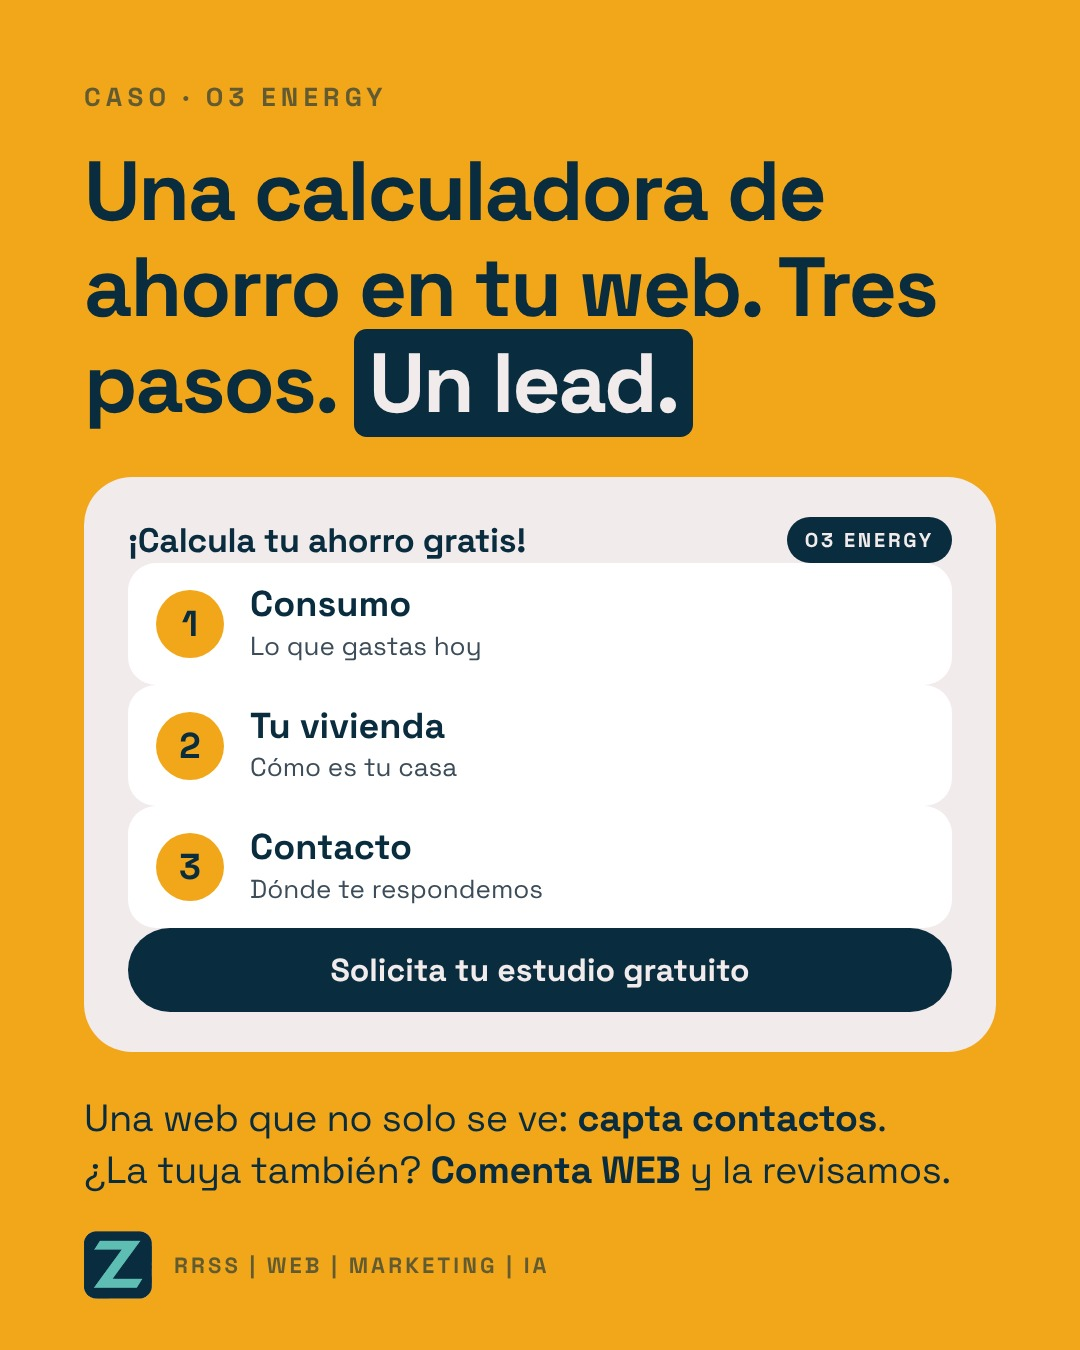
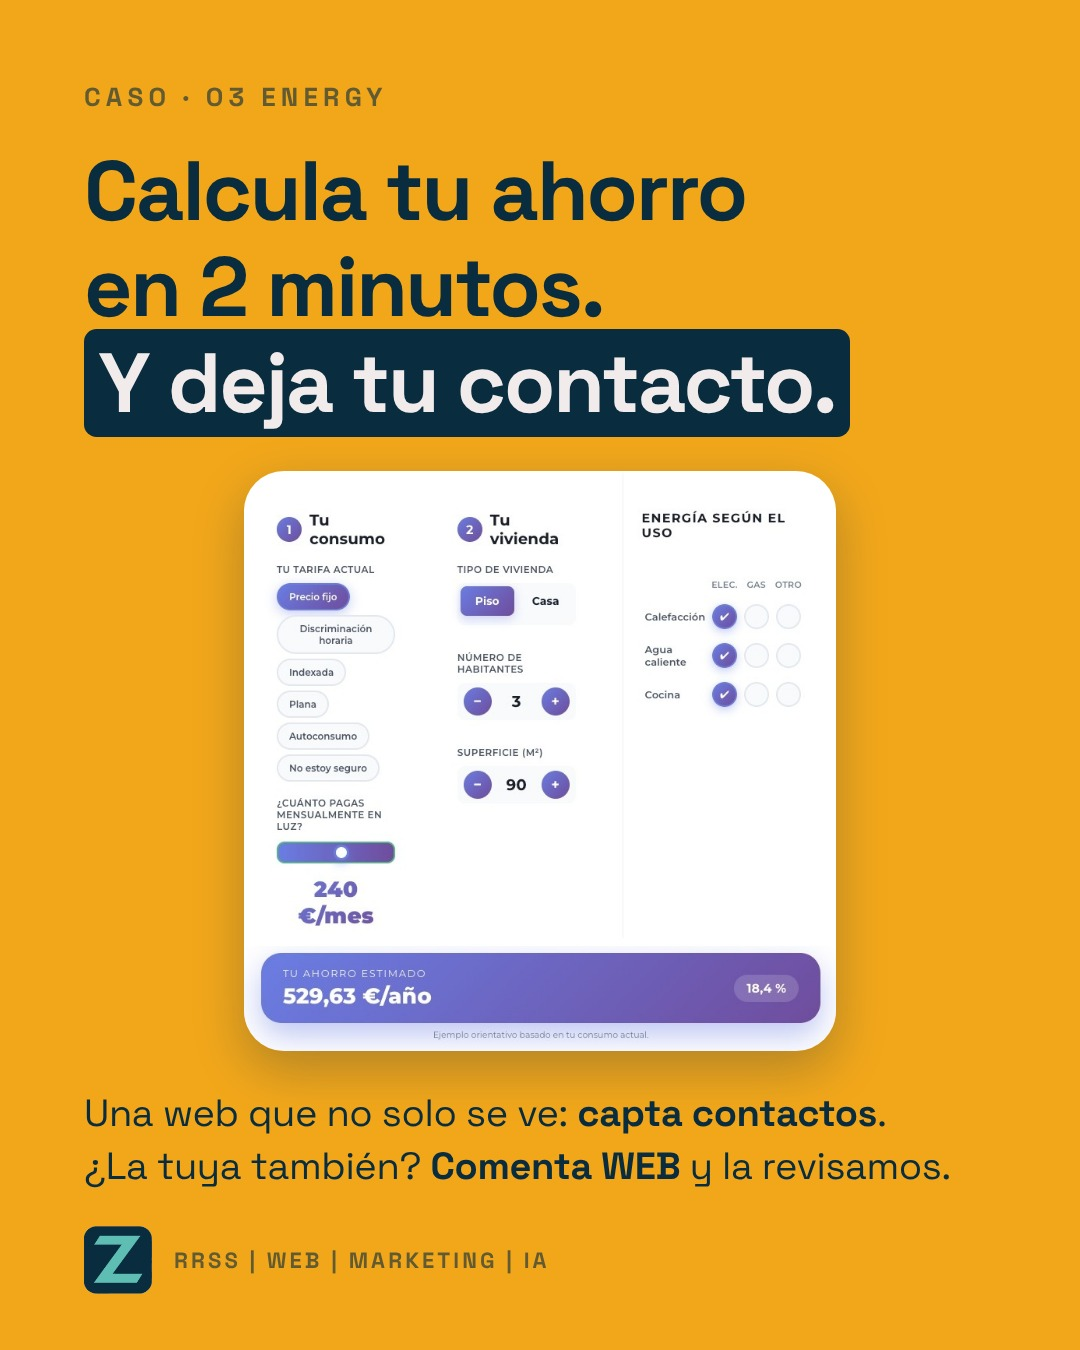
PP2 O3 Energy con captura real de la calculadora
Claude-Session: https://claude.ai/code/session_01Nb11QGD8PGx7x8MteMgDec

diff --git a/2026-12/copys.md b/2026-12/copys.md
@@ -48,9 +48,9 @@ Comenta CANAL y lo vemos para tu negocio.
 #MetaAds #TikTokAds #MarketingDigital #Zynel360
 
 ## 15 dic · IG+FB · PP2 · Caso O3 Energy
-Una calculadora de ahorro en tu web. Tres pasos. Un lead.
+Calcula tu ahorro en 2 minutos. Y deja tu contacto.
 
-Para O3 Energy montamos una web con calculadora de ahorro en tres pasos (consumo, vivienda y contacto) que convierte visitas en contactos.
+Para O3 Energy montamos una web con calculadora de ahorro (tarifa, vivienda y consumo) que convierte visitas en contactos.
 
 ¿La tuya también capta contactos? Comenta WEB y la revisamos.
 
